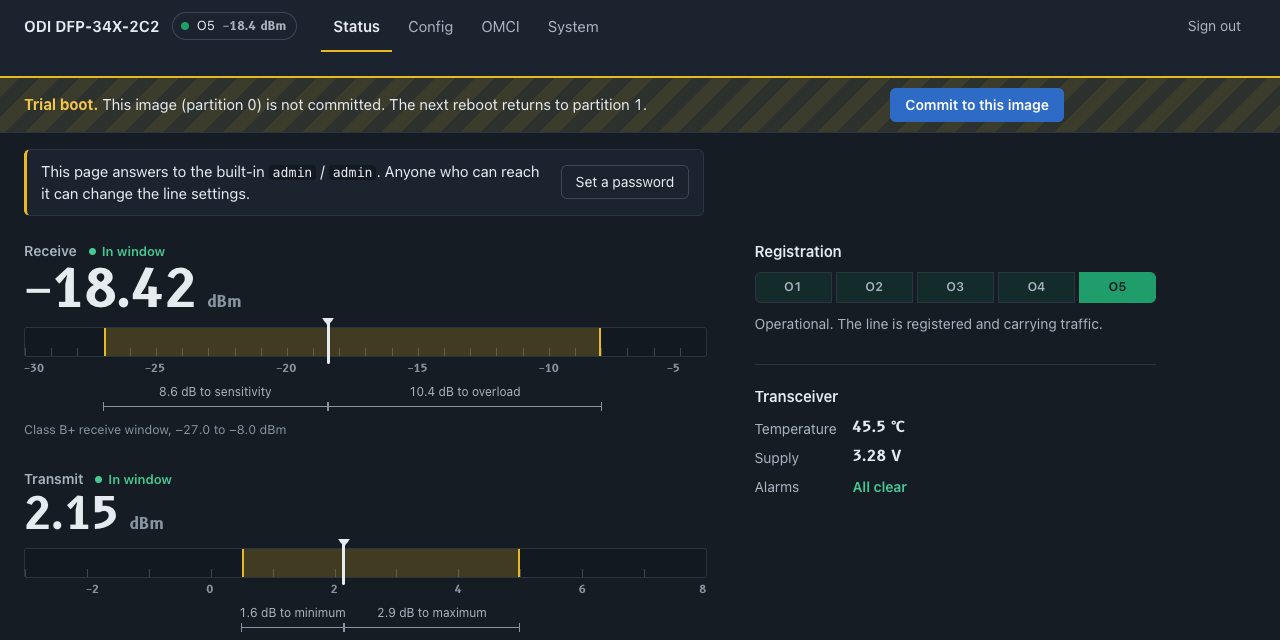
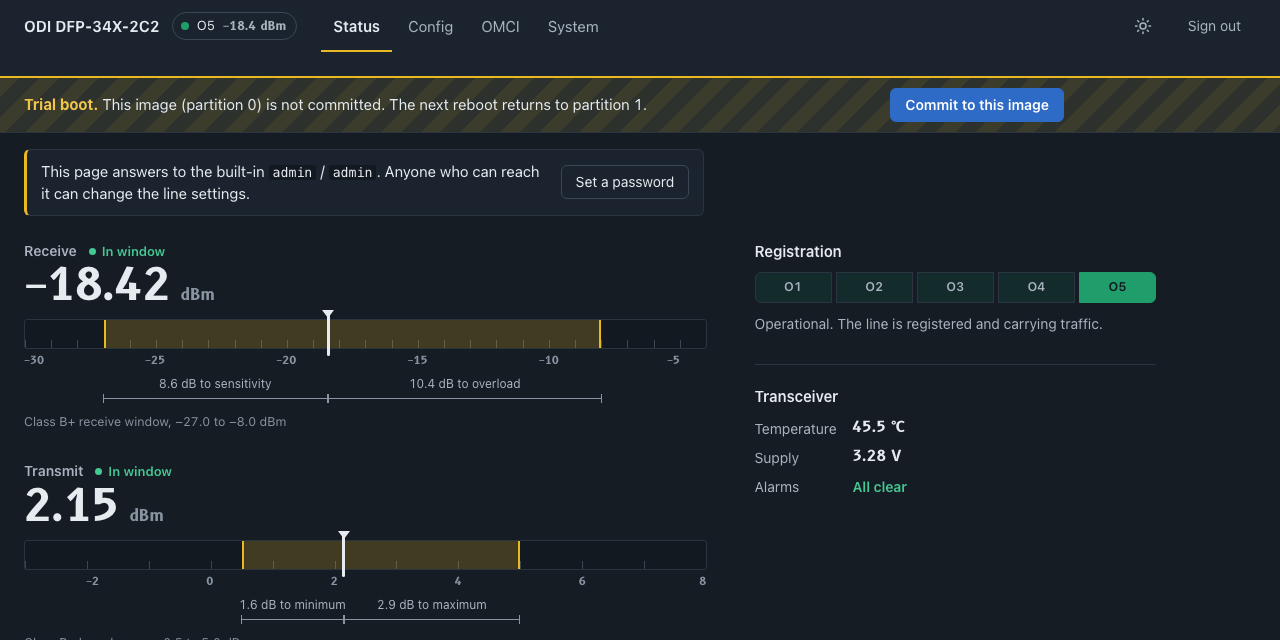
Light/dark toggle in the header; Receive readout the same size as Transmit (#11)
The toggle sits next to Sign out, shows a sun or moon (inline SVG) for the
mode it switches to, and sets data-theme on the root element, which overrides
prefers-color-scheme. The choice is kept in localStorage (odi-theme) and applied
from an inline head script before first paint. Web checks cover both changes;
the screenshots that show the header or Status readouts are retaken.

diff --git a/web/style.css b/web/style.css
@@ -53,8 +53,11 @@
   --readout: "Readout", var(--mono);
   --r: 6px;
 }
+/* Light tokens, twice: once for a browser that asks for light when the user
+   has not chosen, once for an explicit choice. A dark choice on a light
+   browser is the :root block above, which the media query then skips. */
 @media (prefers-color-scheme: light) {
-  :root {
+  :root:not([data-theme="dark"]) {
     color-scheme: light;
     --bg: #EDF1F4;
     --surface: #FFFFFF;
@@ -70,6 +73,22 @@
     --blue-ink: #2358AA;
     --red-ink: #AE2B2B;
   }
+}
+:root[data-theme="light"] {
+  color-scheme: light;
+  --bg: #EDF1F4;
+  --surface: #FFFFFF;
+  --well: #E3E9EE;
+  --field: #FFFFFF;
+  --line: #D2DAE1;
+  --line-2: #B4C0CB;
+  --ink: #141E28;
+  --ink-2: #455362;
+  --ink-3: #5B6876;
+  --yellow-ink: #775900;
+  --green-ink: #0F6E45;
+  --blue-ink: #2358AA;
+  --red-ink: #AE2B2B;
 }
 
 * { box-sizing: border-box; }
@@ -129,6 +148,10 @@ p { margin: 0 0 10px; }
   border: 1px solid color-mix(in srgb, var(--yellow) 55%, transparent); border-radius: 999px; padding: 2px 10px;
 }
 .top-end form { margin: 0; }
+/* The theme toggle: an icon button the size of a tap target. It shows the
+   theme it switches TO, and the label says so. */
+button.themetoggle { padding: 0; width: 36px; height: 36px; justify-content: center; }
+button.themetoggle svg { width: 18px; height: 18px; fill: none; stroke: currentColor; stroke-width: 2; stroke-linecap: round; stroke-linejoin: round; }
 
 /* The trial banner is part of the sticky header, full width, and drawn as
    a band rather than a boxed callout, so it can never be mistaken for the
@@ -335,9 +358,8 @@ h3.sec { margin: 24px 0 0; padding-bottom: 6px; color: var(--ink-2); font-size: 
 .m-verdict { font-size: 13px; font-weight: 600; color: var(--state); }
 .m-verdict::before { content: ""; display: inline-block; width: 7px; height: 7px; border-radius: 50%; background: currentColor; margin-right: 6px; vertical-align: 1px; }
 .m-read { display: flex; align-items: baseline; gap: 10px; margin: 2px 0 12px; }
-.m-read .num { font: 700 clamp(38px, 4.6vw, 52px)/1 var(--readout); letter-spacing: -0.02em; color: var(--ink); }
+.m-read .num { font: 700 clamp(32px, 3.8vw, 44px)/1 var(--readout); letter-spacing: -0.02em; color: var(--ink); }
 .m-read .unit { font: 700 16px var(--readout); color: var(--ink-3); }
-#tx .m-read .num { font-size: clamp(32px, 3.8vw, 44px); }
 
 .instrument { position: relative; padding-bottom: 36px; }
 .scale { position: relative; height: 30px; border-radius: 3px; background: var(--well); border: 1px solid var(--line); }

diff --git a/web/dom.js b/web/dom.js
@@ -26,6 +26,45 @@ async function get(path) {
   return r.json();
 }
 
+/*
+ * Light or dark. The page follows prefers-color-scheme until the user picks
+ * one; the pick is data-theme on <html> (which style.css lets override the
+ * media query) and is kept in localStorage under THEME_KEY. index.html reads it
+ * back in the head, before first paint. Storage can be absent or throw, and
+ * then the choice lasts for the page only.
+ */
+const THEME_KEY = 'odi-theme';
+const currentTheme = () => {
+  const t = document.documentElement.dataset.theme;
+  if (t === 'light' || t === 'dark') return t;
+  return typeof matchMedia === 'function' && matchMedia('(prefers-color-scheme: light)').matches
+    ? 'light' : 'dark';
+};
+function paintThemeToggle() {
+  const to = currentTheme() === 'dark' ? 'light' : 'dark';
+  const b = $('#themetoggle');
+  b.setAttribute('aria-label', 'Switch to ' + to + ' mode');
+  b.setAttribute('title', 'Switch to ' + to + ' mode');
+  /* setAttribute, not .hidden: an SVG element has no hidden property. */
+  for (const [id, on] of [['#ico-sun', to === 'light'], ['#ico-moon', to === 'dark']]) {
+    if (on) $(id).removeAttribute('hidden'); else $(id).setAttribute('hidden', '');
+  }
+}
+function setTheme(t) {
+  document.documentElement.dataset.theme = t;
+  try { localStorage.setItem(THEME_KEY, t); } catch (e) { /* not persisted */ }
+  paintThemeToggle();
+}
+function wireTheme() {
+  $('#themetoggle').addEventListener('click', () => setTheme(currentTheme() === 'dark' ? 'light' : 'dark'));
+  /* Until a pick is made the icon has to follow the browser too. */
+  if (typeof matchMedia === 'function') {
+    const mq = matchMedia('(prefers-color-scheme: light)');
+    if (mq.addEventListener) mq.addEventListener('change', paintThemeToggle);
+  }
+  paintThemeToggle();
+}
+
 const bytes = (n) => {
   n = Number(n || 0);
   const u = ['B', 'kB', 'MB', 'GB', 'TB'];
@@ -37,4 +76,4 @@ const bytes = (n) => {
   return (i ? n.toFixed(n < 10 ? 2 : 1) : String(Math.round(n * 100) / 100)) + ' ' + u[i];
 };
 
-export { $, el, fail, get, bytes };
+export { $, el, fail, get, bytes, currentTheme, setTheme, wireTheme, THEME_KEY };

diff --git a/web/index.html b/web/index.html
@@ -5,6 +5,9 @@
 <meta name="viewport" content="width=device-width, initial-scale=1">
 <meta name="color-scheme" content="dark light">
 <title>ODI DFP-34X-2C2</title>
+<!-- Set the theme before first paint, or a chosen theme flashes the other one.
+     Storage may be blocked; then the page follows the browser. -->
+<script>try{var t=localStorage.getItem("odi-theme");if(t==="light"||t==="dark")document.documentElement.dataset.theme=t}catch(e){}</script>
 <link rel="stylesheet" href="/style.css">
 <!-- Suppress the browser's automatic /favicon.ico request: the daemon serves
      only what web_assets[] lists, so it answers 404 on every page load. -->
@@ -34,6 +37,10 @@
   </nav>
   <div class="top-end">
     <a class="authchip" id="authchip" href="#system/access" hidden>Default password</a>
+    <button id="themetoggle" class="quiet themetoggle" type="button" aria-label="Switch to light mode" title="Switch to light mode">
+      <svg id="ico-sun" viewBox="0 0 24 24" aria-hidden="true"><circle cx="12" cy="12" r="4"/><path d="M12 2v2M12 20v2M4.93 4.93l1.41 1.41M17.66 17.66l1.41 1.41M2 12h2M20 12h2M4.93 19.07l1.41-1.41M17.66 6.34l1.41-1.41"/></svg>
+      <svg id="ico-moon" viewBox="0 0 24 24" aria-hidden="true" hidden><path d="M21 12.8A9 9 0 1 1 11.2 3a7 7 0 0 0 9.8 9.8z"/></svg>
+    </button>
     <form method="post" action="/api/logout"><button id="logout" class="quiet" type="submit">Sign out</button></form>
   </div>
   <!-- A trial boot: shown on every view, in the sticky header, for as long

diff --git a/web/app.js b/web/app.js
@@ -6,7 +6,7 @@
  * any of this.
  */
 
-import { $, el, fail, get } from './dom.js';
+import { $, el, fail, get, wireTheme } from './dom.js';
 import { S, EDITS } from './state.js';
 import { renderStatus } from './status.js';
 import { renderAll } from './config.js';
@@ -127,6 +127,7 @@ $('#pw-save').onclick = savePassword;
 $('#sshkey-add').onclick = addSshKey;
 $('#reset-go').onclick = resetConfig;
 wireRestore();
+wireTheme();
 wireFirmware();
 /* On demand, not on the poll: it is another diag fork and most visits to the
    status page do not need it. Both firmwares answer it: the stock diag, and

diff --git a/CHANGELOG.md b/CHANGELOG.md
@@ -6,6 +6,17 @@ The format is based on [Keep a Changelog](https://keepachangelog.com/en/1.1.0/).
 
 ## Unreleased
 
+### Added
+- A light/dark toggle at the top right of the header, next to Sign out: a sun
+  or a moon (inline SVG, no fetch) for the mode it switches to. The page still
+  follows the browser's colour scheme until you pick; the pick is kept in
+  localStorage (`odi-theme`) and applied from the head before first paint, so
+  it does not flash. It works with storage blocked, for the page only.
+
+### Changed
+- Receive is now read at the same size as Transmit (44 px at most, was 52 px):
+  one size, weight and unit style for both readouts.
+
 ## v1.1.1 - 2026-09-29
 
 ### Changed

diff --git a/docs/DESIGN.md b/docs/DESIGN.md
@@ -894,7 +894,9 @@ glance, and know what a change costs before making it. The receive level is
 the one loud thing on the page; everything else is quiet on purpose.
 
 Colour is taken from the objects the stick is plugged into, on a cool slate
-ground (`#151C24` dark, `#EDF1F4` light, following `prefers-color-scheme`),
+ground (`#151C24` dark, `#EDF1F4` light, following `prefers-color-scheme` until
+the header toggle picks one: `data-theme` on `<html>`, kept in localStorage as
+`odi-theme`, set from the head before first paint),
 and each colour means one thing everywhere:
 
 | colour | from | means |
